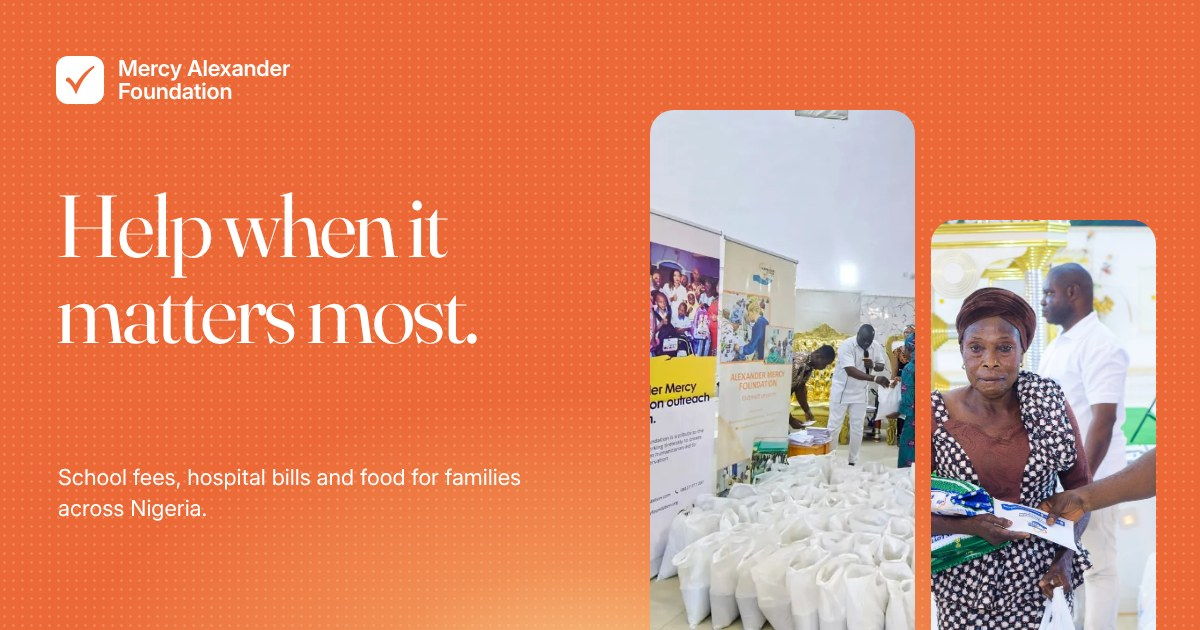
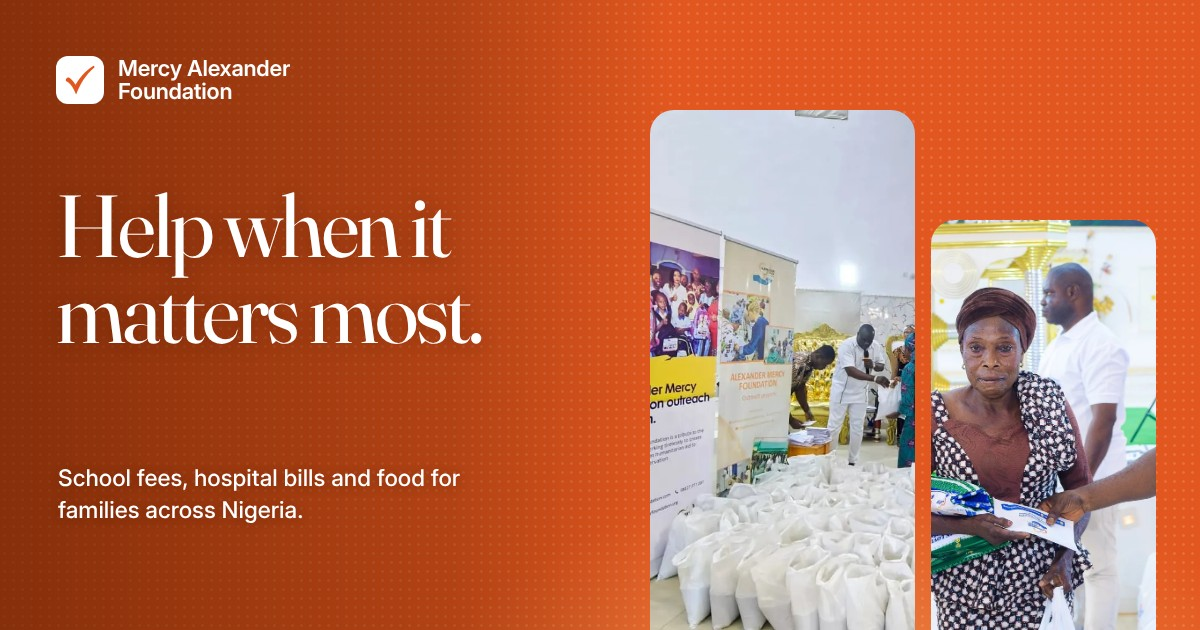
Improve hero subtext legibility and darken the share card
- Hero subtext now medium weight with a soft shadow, and the floor glow's
  peak is dialled back, so white text reads clearly on the orange
- og-cover.jpg replaced with a higher-contrast version

Claude-Session: https://claude.ai/code/session_01678jUQnkmdNTmUbnLqEeB8

diff --git a/about.html b/about.html
@@ -425,7 +425,7 @@ ul, ol { list-style: none; }
 /* Warm light rising from the floor, centred under the button */
 .room::after { content: ""; position: absolute; inset: 0; z-index: -1; pointer-events: none; opacity: 1; mix-blend-mode: normal;
   background:
-    radial-gradient(30% 24% at 50% 103%, rgba(252, 226, 160, 1) 0%, rgba(248, 190, 120, 0.7) 38%, rgba(236, 104, 54, 0) 100%),
+    radial-gradient(30% 24% at 50% 103%, rgba(252, 226, 160, 0.82) 0%, rgba(248, 190, 120, 0.7) 38%, rgba(236, 104, 54, 0) 100%),
     radial-gradient(60% 40% at 50% 110%, rgba(244, 150, 90, 0.35) 0%, rgba(236, 104, 54, 0) 100%); }
 
 /* The announcement pill, Cloudflare-style, carrying the programme name and the second action */
@@ -439,7 +439,7 @@ ul, ol { list-style: none; }
 .intro { top: clamp(44px, 8vh, 88px); transform: translateX(-50%); width: min(100% - var(--margin) * 2, 980px); }
 .display { margin-top: 30px; font-size: clamp(44px, 6.2vw, 92px); font-weight: 530; line-height: 1.0; letter-spacing: -0.035em; color: #fff; }
 .display span { display: block; }
-.lede { margin: 26px auto 0; max-width: 27em; text-wrap: balance; color: #fff; font-size: clamp(17px, 1.45vw, 21px); line-height: 1.45; font-weight: 400; letter-spacing: -0.012em; }
+.lede { margin: 26px auto 0; max-width: 27em; text-wrap: balance; color: #fff; font-size: clamp(17px, 1.45vw, 21px); line-height: 1.45; font-weight: 500; letter-spacing: -0.012em; text-shadow: 0 1px 12px rgba(70, 22, 0, 0.32); }
 .ctas { margin-top: 36px; }
 .ctas .donate { height: 60px; padding: 0 36px; background: var(--cream-btn); color: var(--btn-ink); font-size: 18px; font-weight: 520; box-shadow: none; }
 .ctas .donate:hover { background: #fff; }

diff --git a/blog.html b/blog.html
@@ -425,7 +425,7 @@ ul, ol { list-style: none; }
 /* Warm light rising from the floor, centred under the button */
 .room::after { content: ""; position: absolute; inset: 0; z-index: -1; pointer-events: none; opacity: 1; mix-blend-mode: normal;
   background:
-    radial-gradient(30% 24% at 50% 103%, rgba(252, 226, 160, 1) 0%, rgba(248, 190, 120, 0.7) 38%, rgba(236, 104, 54, 0) 100%),
+    radial-gradient(30% 24% at 50% 103%, rgba(252, 226, 160, 0.82) 0%, rgba(248, 190, 120, 0.7) 38%, rgba(236, 104, 54, 0) 100%),
     radial-gradient(60% 40% at 50% 110%, rgba(244, 150, 90, 0.35) 0%, rgba(236, 104, 54, 0) 100%); }
 
 /* The announcement pill, Cloudflare-style, carrying the programme name and the second action */
@@ -439,7 +439,7 @@ ul, ol { list-style: none; }
 .intro { top: clamp(44px, 8vh, 88px); transform: translateX(-50%); width: min(100% - var(--margin) * 2, 980px); }
 .display { margin-top: 30px; font-size: clamp(44px, 6.2vw, 92px); font-weight: 530; line-height: 1.0; letter-spacing: -0.035em; color: #fff; }
 .display span { display: block; }
-.lede { margin: 26px auto 0; max-width: 27em; text-wrap: balance; color: #fff; font-size: clamp(17px, 1.45vw, 21px); line-height: 1.45; font-weight: 400; letter-spacing: -0.012em; }
+.lede { margin: 26px auto 0; max-width: 27em; text-wrap: balance; color: #fff; font-size: clamp(17px, 1.45vw, 21px); line-height: 1.45; font-weight: 500; letter-spacing: -0.012em; text-shadow: 0 1px 12px rgba(70, 22, 0, 0.32); }
 .ctas { margin-top: 36px; }
 .ctas .donate { height: 60px; padding: 0 36px; background: var(--cream-btn); color: var(--btn-ink); font-size: 18px; font-weight: 520; box-shadow: none; }
 .ctas .donate:hover { background: #fff; }

diff --git a/contact.html b/contact.html
@@ -429,7 +429,7 @@ ul, ol { list-style: none; }
 /* Warm light rising from the floor, centred under the button */
 .room::after { content: ""; position: absolute; inset: 0; z-index: -1; pointer-events: none; opacity: 1; mix-blend-mode: normal;
   background:
-    radial-gradient(30% 24% at 50% 103%, rgba(252, 226, 160, 1) 0%, rgba(248, 190, 120, 0.7) 38%, rgba(236, 104, 54, 0) 100%),
+    radial-gradient(30% 24% at 50% 103%, rgba(252, 226, 160, 0.82) 0%, rgba(248, 190, 120, 0.7) 38%, rgba(236, 104, 54, 0) 100%),
     radial-gradient(60% 40% at 50% 110%, rgba(244, 150, 90, 0.35) 0%, rgba(236, 104, 54, 0) 100%); }
 
 /* The announcement pill, Cloudflare-style, carrying the programme name and the second action */
@@ -443,7 +443,7 @@ ul, ol { list-style: none; }
 .intro { top: clamp(44px, 8vh, 88px); transform: translateX(-50%); width: min(100% - var(--margin) * 2, 980px); }
 .display { margin-top: 30px; font-size: clamp(44px, 6.2vw, 92px); font-weight: 530; line-height: 1.0; letter-spacing: -0.035em; color: #fff; }
 .display span { display: block; }
-.lede { margin: 26px auto 0; max-width: 27em; text-wrap: balance; color: #fff; font-size: clamp(17px, 1.45vw, 21px); line-height: 1.45; font-weight: 400; letter-spacing: -0.012em; }
+.lede { margin: 26px auto 0; max-width: 27em; text-wrap: balance; color: #fff; font-size: clamp(17px, 1.45vw, 21px); line-height: 1.45; font-weight: 500; letter-spacing: -0.012em; text-shadow: 0 1px 12px rgba(70, 22, 0, 0.32); }
 .ctas { margin-top: 36px; }
 .ctas .donate { height: 60px; padding: 0 36px; background: var(--cream-btn); color: var(--btn-ink); font-size: 18px; font-weight: 520; box-shadow: none; }
 .ctas .donate:hover { background: #fff; }

diff --git a/donate.html b/donate.html
@@ -426,7 +426,7 @@ ul, ol { list-style: none; }
 /* Warm light rising from the floor, centred under the button */
 .room::after { content: ""; position: absolute; inset: 0; z-index: -1; pointer-events: none; opacity: 1; mix-blend-mode: normal;
   background:
-    radial-gradient(30% 24% at 50% 103%, rgba(252, 226, 160, 1) 0%, rgba(248, 190, 120, 0.7) 38%, rgba(236, 104, 54, 0) 100%),
+    radial-gradient(30% 24% at 50% 103%, rgba(252, 226, 160, 0.82) 0%, rgba(248, 190, 120, 0.7) 38%, rgba(236, 104, 54, 0) 100%),
     radial-gradient(60% 40% at 50% 110%, rgba(244, 150, 90, 0.35) 0%, rgba(236, 104, 54, 0) 100%); }
 
 /* The announcement pill, Cloudflare-style, carrying the programme name and the second action */
@@ -440,7 +440,7 @@ ul, ol { list-style: none; }
 .intro { top: clamp(44px, 8vh, 88px); transform: translateX(-50%); width: min(100% - var(--margin) * 2, 980px); }
 .display { margin-top: 30px; font-size: clamp(44px, 6.2vw, 92px); font-weight: 530; line-height: 1.0; letter-spacing: -0.035em; color: #fff; }
 .display span { display: block; }
-.lede { margin: 26px auto 0; max-width: 27em; text-wrap: balance; color: #fff; font-size: clamp(17px, 1.45vw, 21px); line-height: 1.45; font-weight: 400; letter-spacing: -0.012em; }
+.lede { margin: 26px auto 0; max-width: 27em; text-wrap: balance; color: #fff; font-size: clamp(17px, 1.45vw, 21px); line-height: 1.45; font-weight: 500; letter-spacing: -0.012em; text-shadow: 0 1px 12px rgba(70, 22, 0, 0.32); }
 .ctas { margin-top: 36px; }
 .ctas .donate { height: 60px; padding: 0 36px; background: var(--cream-btn); color: var(--btn-ink); font-size: 18px; font-weight: 520; box-shadow: none; }
 .ctas .donate:hover { background: #fff; }

diff --git a/index.html b/index.html
@@ -427,7 +427,7 @@ ul, ol { list-style: none; }
 /* Warm light rising from the floor, centred under the button */
 .room::after { content: ""; position: absolute; inset: 0; z-index: -1; pointer-events: none; opacity: 1; mix-blend-mode: normal;
   background:
-    radial-gradient(30% 24% at 50% 103%, rgba(252, 226, 160, 1) 0%, rgba(248, 190, 120, 0.7) 38%, rgba(236, 104, 54, 0) 100%),
+    radial-gradient(30% 24% at 50% 103%, rgba(252, 226, 160, 0.82) 0%, rgba(248, 190, 120, 0.7) 38%, rgba(236, 104, 54, 0) 100%),
     radial-gradient(60% 40% at 50% 110%, rgba(244, 150, 90, 0.35) 0%, rgba(236, 104, 54, 0) 100%); }
 
 /* The announcement pill, Cloudflare-style, carrying the programme name and the second action */
@@ -441,7 +441,7 @@ ul, ol { list-style: none; }
 .intro { top: clamp(44px, 8vh, 88px); transform: translateX(-50%); width: min(100% - var(--margin) * 2, 980px); }
 .display { margin-top: 30px; font-size: clamp(44px, 6.2vw, 92px); font-weight: 530; line-height: 1.0; letter-spacing: -0.035em; color: #fff; }
 .display span { display: block; }
-.lede { margin: 26px auto 0; max-width: 27em; text-wrap: balance; color: #fff; font-size: clamp(17px, 1.45vw, 21px); line-height: 1.45; font-weight: 400; letter-spacing: -0.012em; }
+.lede { margin: 26px auto 0; max-width: 27em; text-wrap: balance; color: #fff; font-size: clamp(17px, 1.45vw, 21px); line-height: 1.45; font-weight: 500; letter-spacing: -0.012em; text-shadow: 0 1px 12px rgba(70, 22, 0, 0.32); }
 .ctas { margin-top: 36px; }
 .ctas .donate { height: 60px; padding: 0 36px; background: var(--cream-btn); color: var(--btn-ink); font-size: 18px; font-weight: 520; box-shadow: none; }
 .ctas .donate:hover { background: #fff; }

diff --git a/media.html b/media.html
@@ -425,7 +425,7 @@ ul, ol { list-style: none; }
 /* Warm light rising from the floor, centred under the button */
 .room::after { content: ""; position: absolute; inset: 0; z-index: -1; pointer-events: none; opacity: 1; mix-blend-mode: normal;
   background:
-    radial-gradient(30% 24% at 50% 103%, rgba(252, 226, 160, 1) 0%, rgba(248, 190, 120, 0.7) 38%, rgba(236, 104, 54, 0) 100%),
+    radial-gradient(30% 24% at 50% 103%, rgba(252, 226, 160, 0.82) 0%, rgba(248, 190, 120, 0.7) 38%, rgba(236, 104, 54, 0) 100%),
     radial-gradient(60% 40% at 50% 110%, rgba(244, 150, 90, 0.35) 0%, rgba(236, 104, 54, 0) 100%); }
 
 /* The announcement pill, Cloudflare-style, carrying the programme name and the second action */
@@ -439,7 +439,7 @@ ul, ol { list-style: none; }
 .intro { top: clamp(44px, 8vh, 88px); transform: translateX(-50%); width: min(100% - var(--margin) * 2, 980px); }
 .display { margin-top: 30px; font-size: clamp(44px, 6.2vw, 92px); font-weight: 530; line-height: 1.0; letter-spacing: -0.035em; color: #fff; }
 .display span { display: block; }
-.lede { margin: 26px auto 0; max-width: 27em; text-wrap: balance; color: #fff; font-size: clamp(17px, 1.45vw, 21px); line-height: 1.45; font-weight: 400; letter-spacing: -0.012em; }
+.lede { margin: 26px auto 0; max-width: 27em; text-wrap: balance; color: #fff; font-size: clamp(17px, 1.45vw, 21px); line-height: 1.45; font-weight: 500; letter-spacing: -0.012em; text-shadow: 0 1px 12px rgba(70, 22, 0, 0.32); }
 .ctas { margin-top: 36px; }
 .ctas .donate { height: 60px; padding: 0 36px; background: var(--cream-btn); color: var(--btn-ink); font-size: 18px; font-weight: 520; box-shadow: none; }
 .ctas .donate:hover { background: #fff; }
